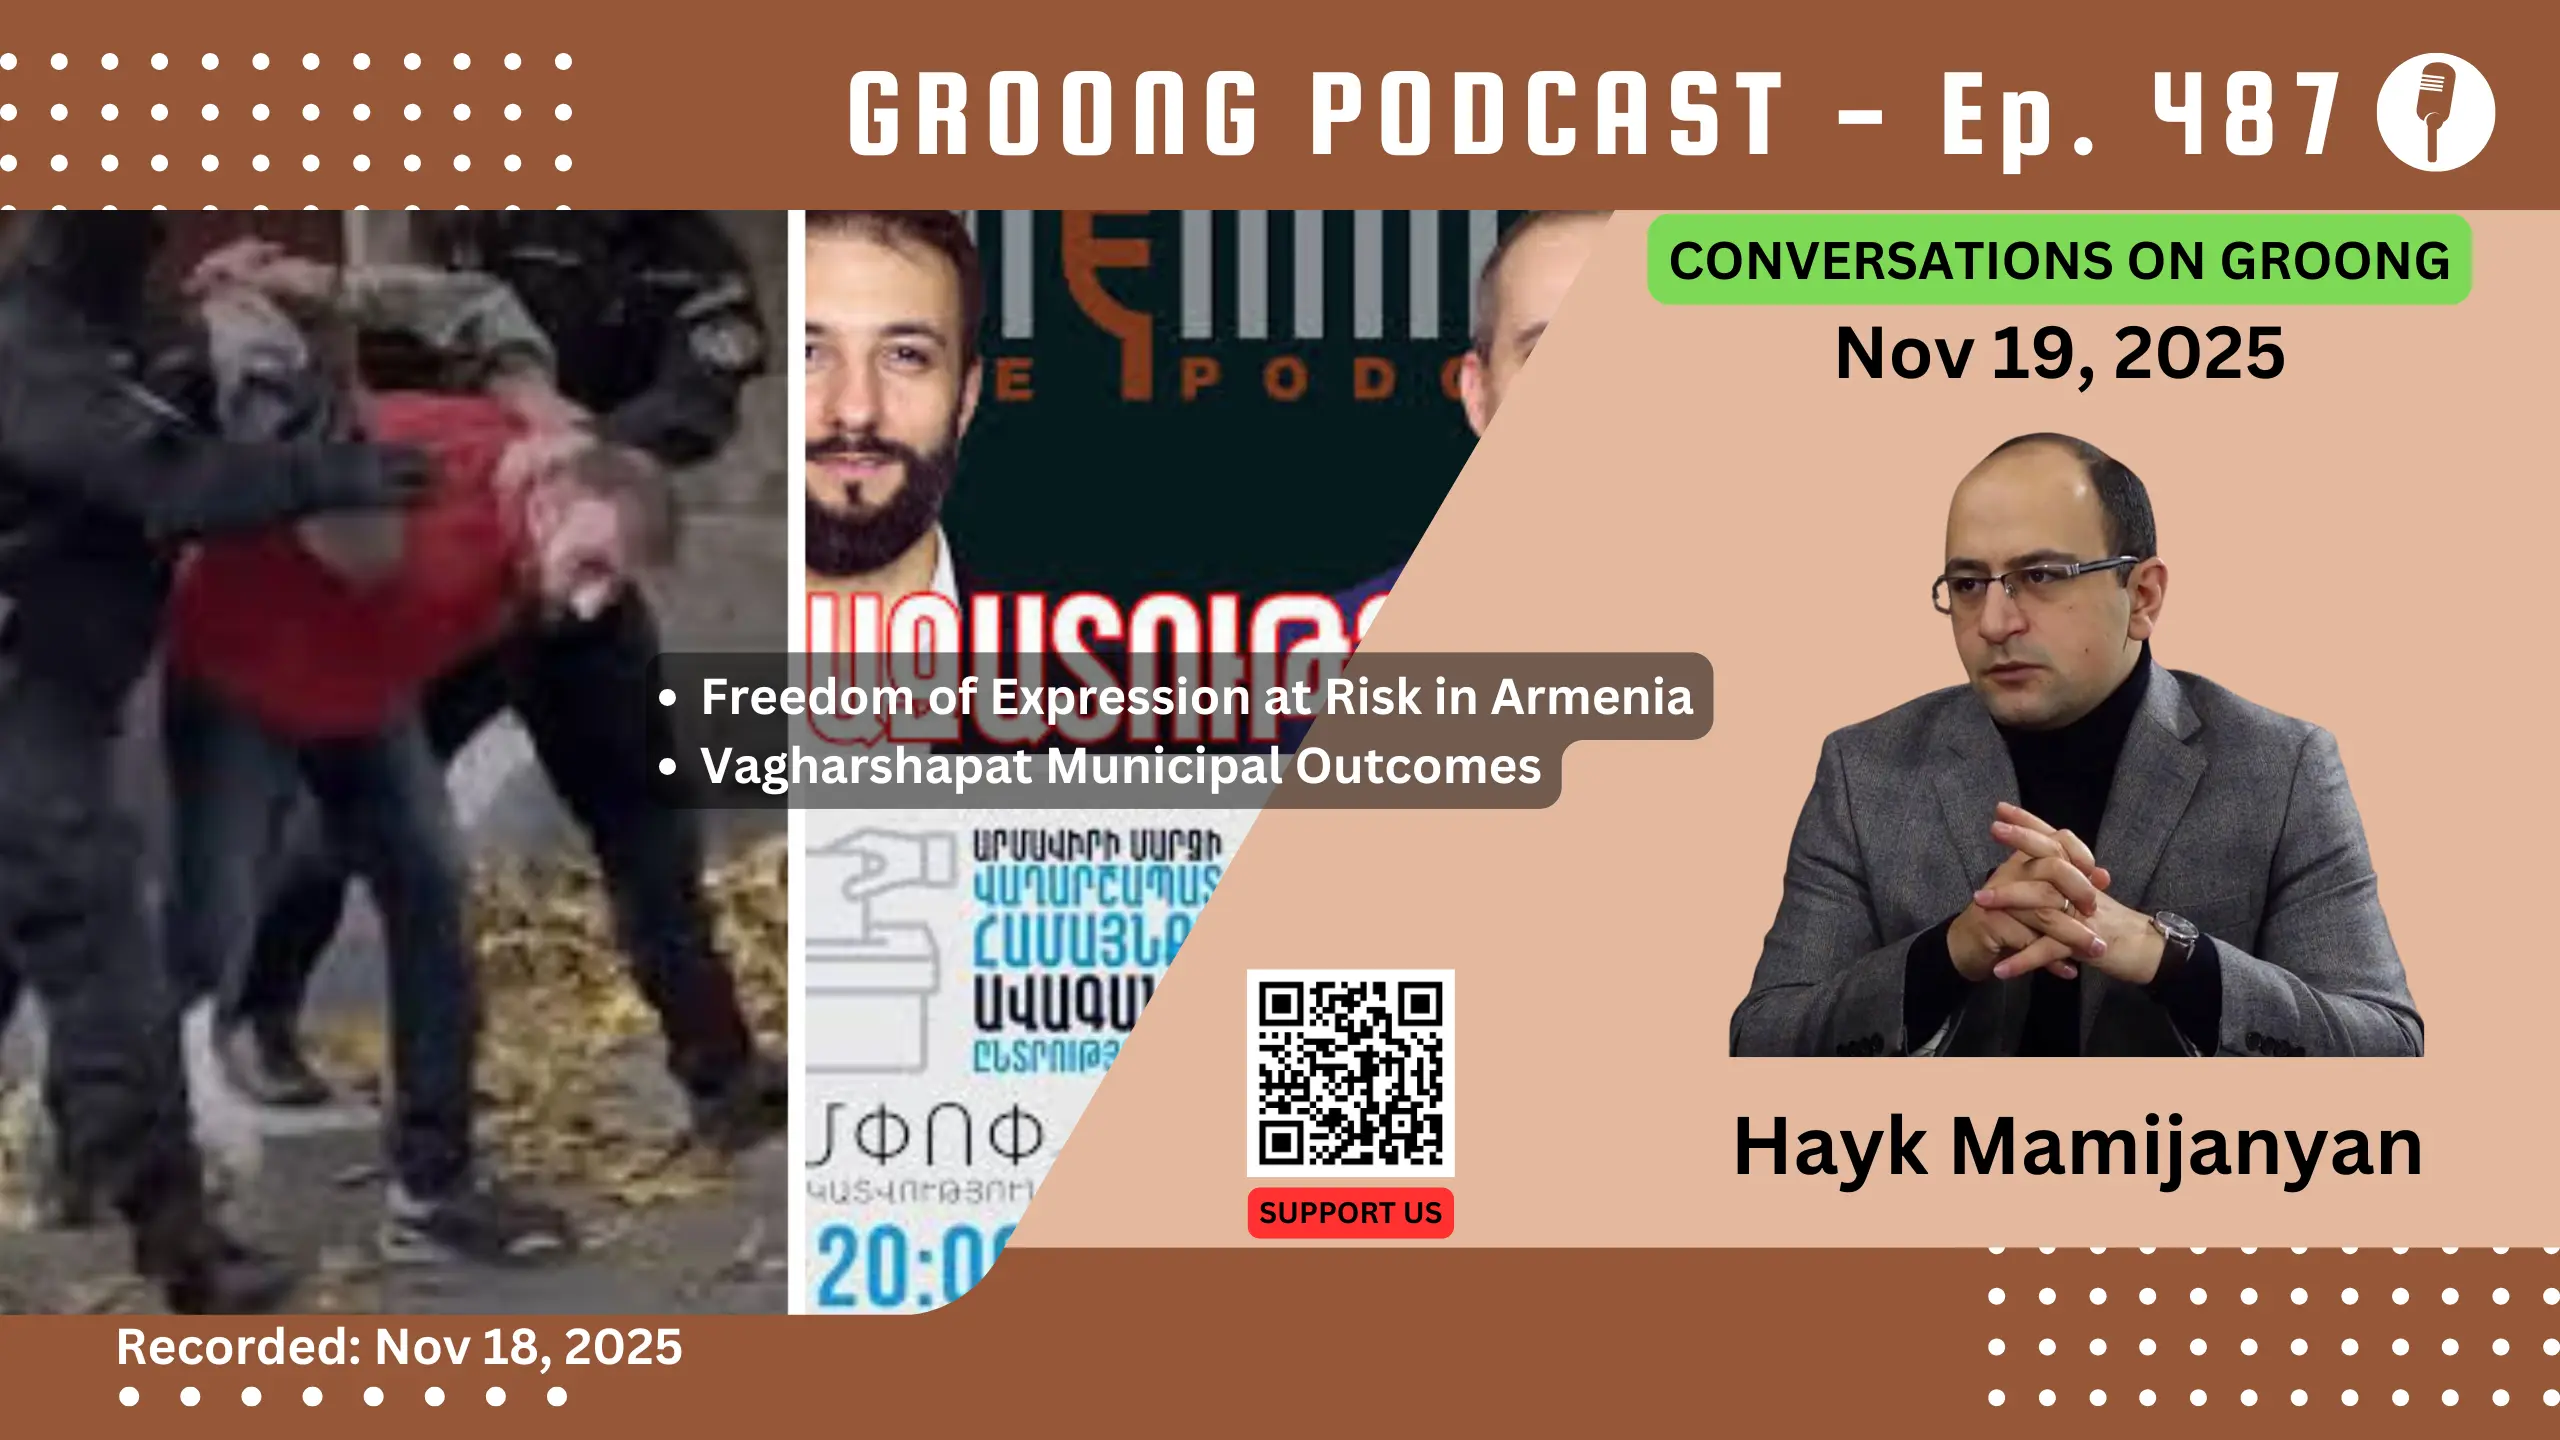
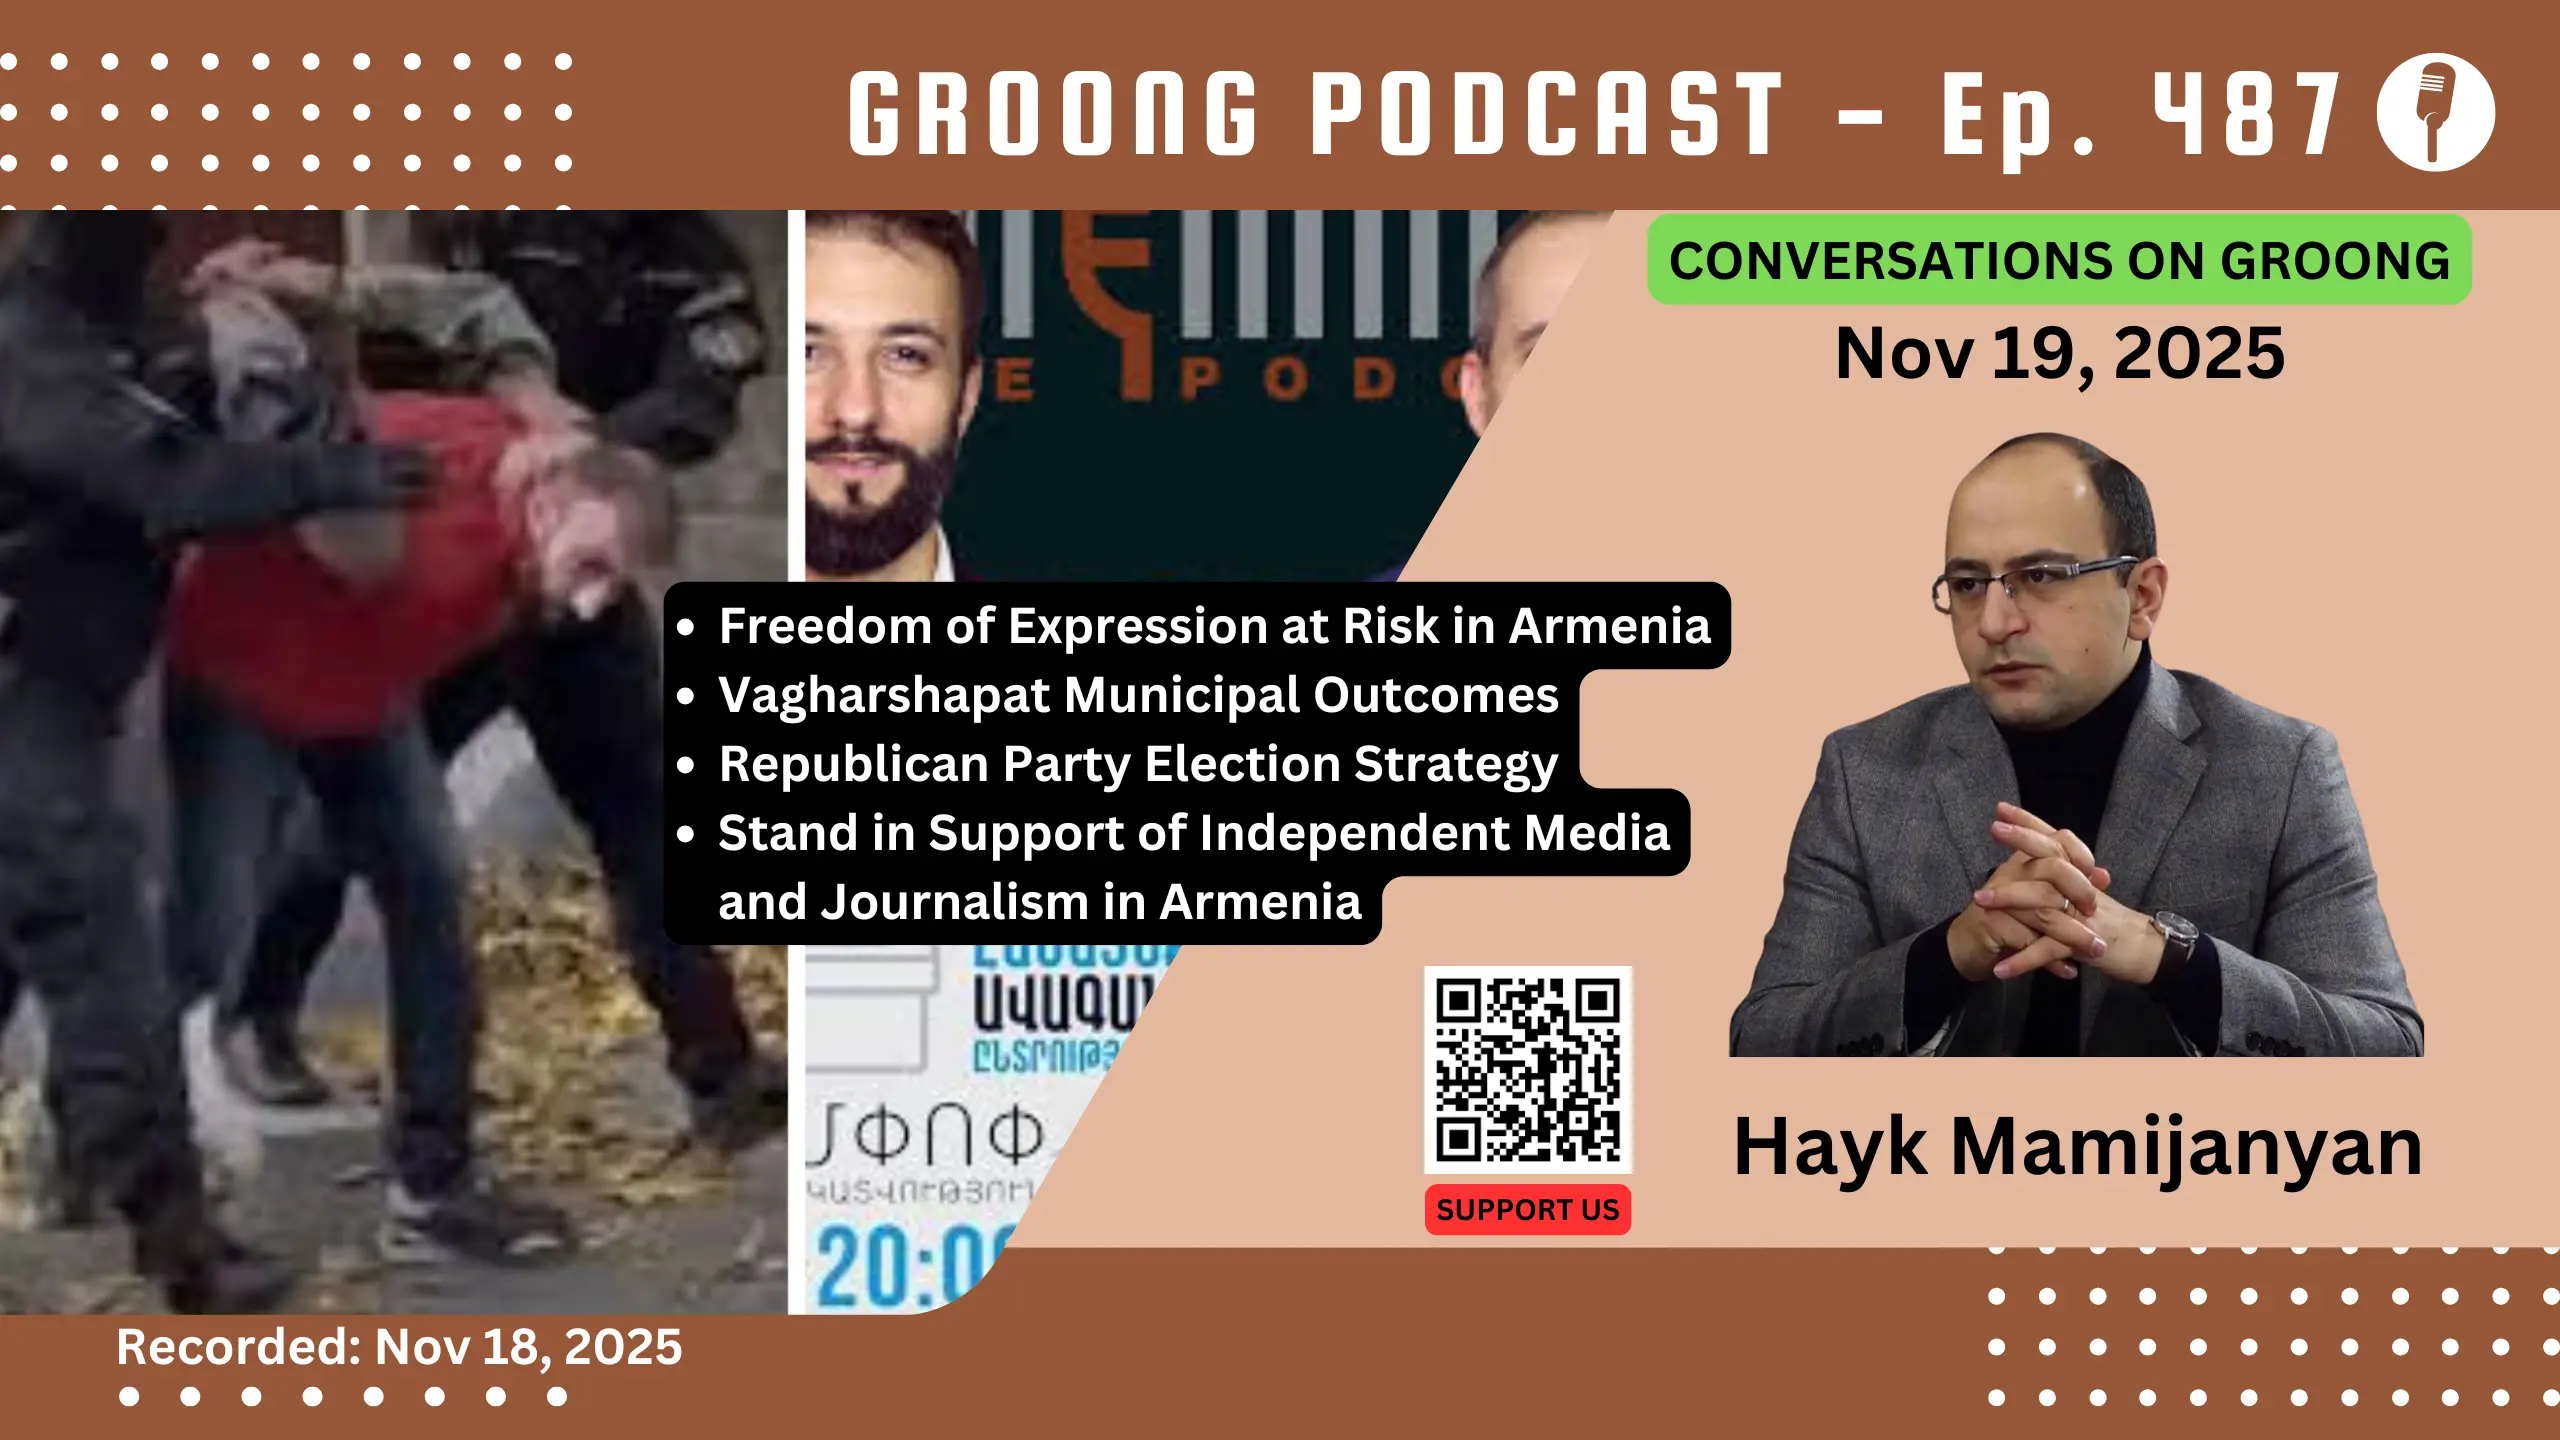
Update ep 487

Changed region(s): [[0.25, 0.4062, 0.6875, 0.875]]

diff --git a/content/episode/487-hayk-mamijanyan-armenia-freedom-of-expression-at-risk-imnemnimi-arrests-vagharshapat-municipal-outcome.md b/content/episode/487-hayk-mamijanyan-armenia-freedom-of-expression-at-risk-imnemnimi-arrests-vagharshapat-municipal-outcome.md
@@ -2,7 +2,7 @@
 Date = 2025-11-19T02:00:00+04:00
 upcoming = true
 
-title = "Hayk Mamijanyan - Freedom of Expression at Risk in Armenia, Vagharshapat Municipal Outcome | Ep 487, Nov 19, 2025"
+title = "Hayk Mamijanyan - Freedom of Expression at Risk in Armenia, Vagharshapat, RPA Strategy | Ep 487, Nov 19, 2025"
 subtitle = "Conversations on Groong - Recorded on: Nov 18, 2025"
 
 podcast_file = ""
@@ -23,7 +23,7 @@ aliases = ["/487"]
 series = ["cog"]
 categories = ["Armenia", "artsakh", "political prisoners"]
 explicit = "no" # values are "yes" or "no"
-tags = ["Armenian News", "Armenia", "Donald Trump", "Political Prisoners", "Srbazan Movement", "Hayk Mamijanyan", "Nikol Pashinyan"]
+tags = ["Armenian News", "Hayk Mamijanyan", "Armenia", "Artsakh", "Nagorno Karabakh", "Imnemnimi", "Vazgen Saghatelyan", "Narek Samsonyan", "Freedom of Speech", "Freedom of Expression", "Attack in Media", "Satik Seyranyan", "Union of Journalists of Armenia", "168.am", "Anna Mkrtchyan", "Taguhi Tovmasyan", "Amnesty International", "CPJ", "Journalists", "Free Media", "Vagharshapat", "Civil Contract", "RPA", "Republican Party of Armenia", "Hayastan Dashinq", "Victory Alliance", "Haghtanak Dashinq", "Alen Simonyan", "Nikol Pashinyan", "Serge Sargsyan", "Armenian Church", "Hovannavank", "Stepan Asatryan", "Edgar Ghazaryan", "David Hambartzumyan", "Arkishti Mekhakyan", "Catholicos", "Etchmiadzin"]
 
 Description = """
 
@@ -35,8 +35,10 @@ Description = """
 * [Hayk Mamijanyan](/guest/hmamijanyan)
 
 #### Topics:
-* Imnemnimi Podcaster Arrests
+* Freedom of Expression at Risk in Armenia
 * Vagharshapat Municipal Outcomes
+* Republican Party Election Strategy
+* Stand in Support of Independent Media and Journalism in Armenia
 
 Episode 487 | Recorded: November 18, 2025
 """
